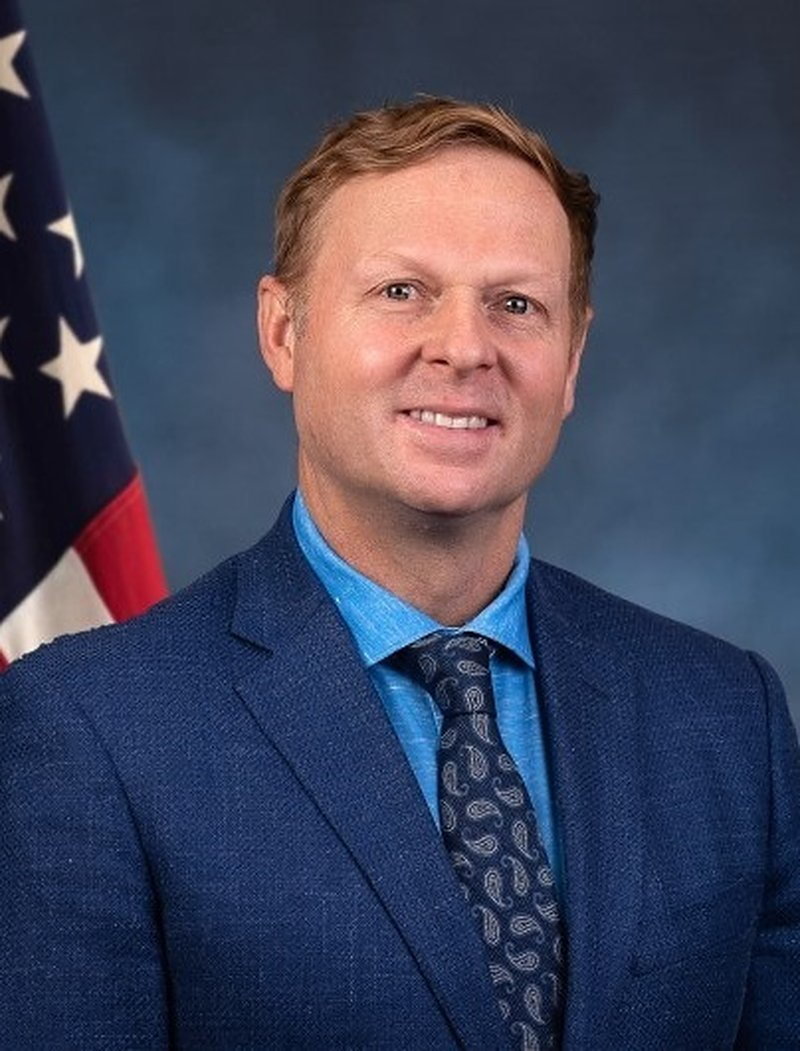
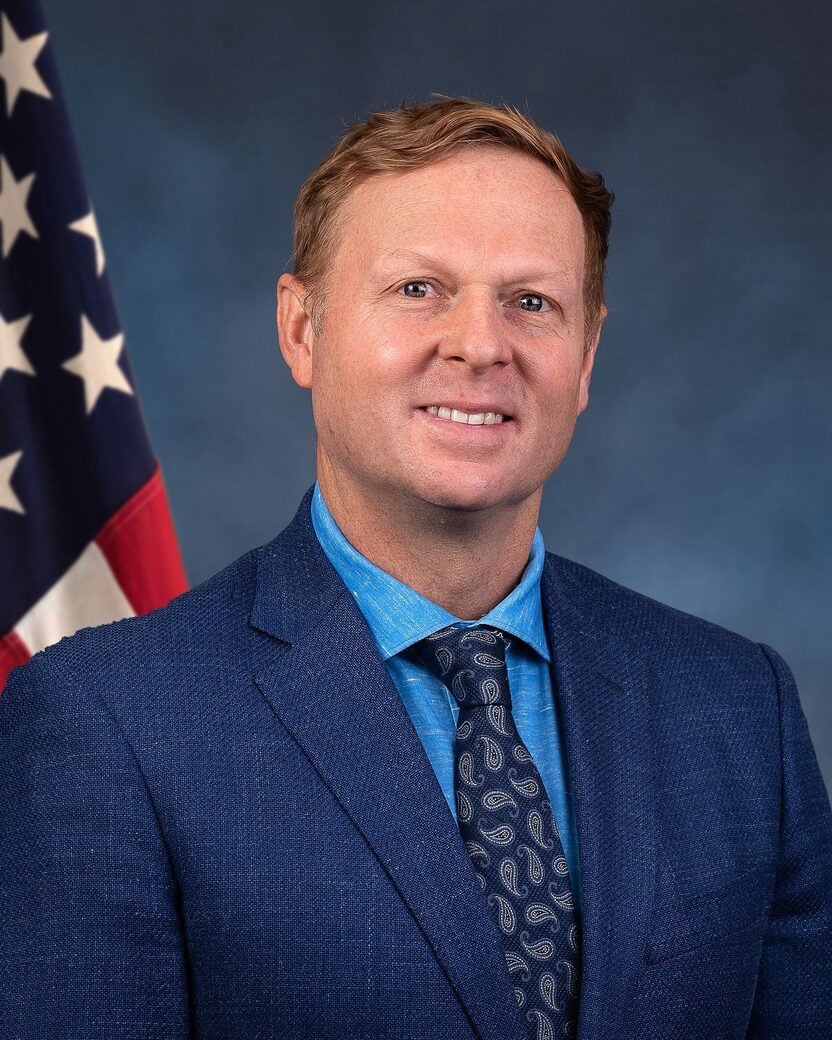
Update Veerkamp to District 3 Supervisor, standardize titles, replace hero image (#12)
* Initial plan

* Update Veerkamp to District 3 Supervisor, standardize district titles, fix capitalization, update hero image, update CFO text

---------

diff --git a/index.html b/index.html
@@ -239,7 +239,7 @@
         <details class="accordion__item">
           <summary class="accordion__summary">CFO for El Dorado County Sheriff’s Office</summary>
           <div class="accordion__panel">
-            <p>Since 2013, I have served as Chief Fiscal Officer (CFO) for the El Dorado County Sheriff’s Office where we returned over $20 million in fund balance. I am a member of the California State Sheriff’s Association, Government Finance Officers Association, and the Institute for Supply Management.</p>
+            <p>For 9.5 years, I served as Chief Fiscal Officer (CFO) for the El Dorado County Sheriff’s Office where we returned over $20 million in fund balance. I am a member of the California State Sheriff’s Association, Government Finance Officers Association, and the Institute for Supply Management.</p>
           </div>
         </details>
             </div>
@@ -342,7 +342,7 @@
         </picture>
         <div class="endorsement__meta">
           <div class="endorsement__name">Greg Ferrero</div>
-          <div class="endorsement__title">Dist 1 Supervisor, El Dorado Hills</div>
+          <div class="endorsement__title">El Dorado County District 1 Supervisor</div>
         </div>
       </li>
 
@@ -353,7 +353,7 @@
         </picture>
         <div class="endorsement__meta">
           <div class="endorsement__name">Barbara Heglie</div>
-          <div class="endorsement__title">Retired teacher, William Brooks Elementary School</div>
+          <div class="endorsement__title">Retired Teacher, William Brooks Elementary School</div>
         </div>
       </li>
 
@@ -375,7 +375,7 @@
         </picture>
         <div class="endorsement__meta">
           <div class="endorsement__name">Brian K. Veerkamp</div>
-          <div class="endorsement__title">Retired El Dorado Hills Fire Chief</div>
+          <div class="endorsement__title">El Dorado County District 3 Supervisor</div>
         </div>
       </li>
 
